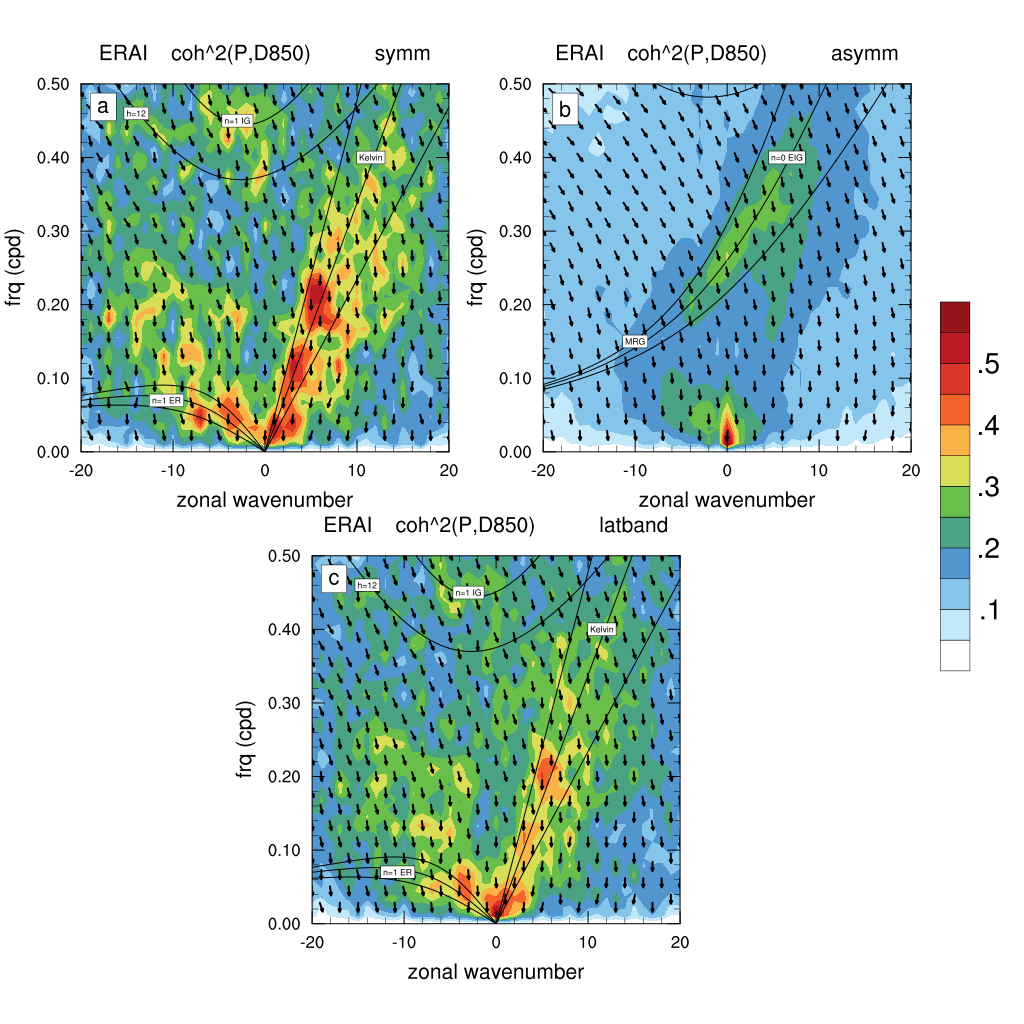
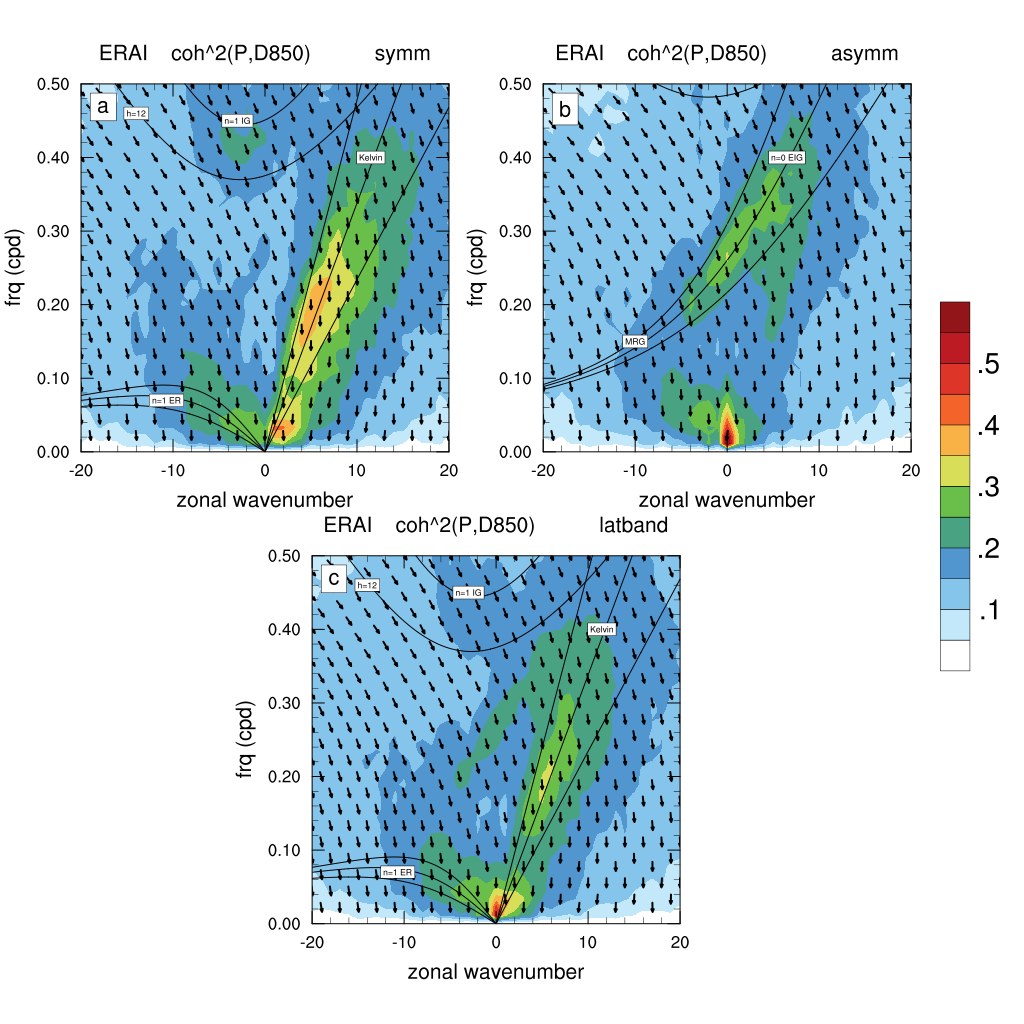
fixed bug in spacetime_plot and changed plot example back to Ngl plots

Changed region(s): [[0.2812, 0.5312, 0.6875, 0.9062], [0.0625, 0.0625, 0.4375, 0.4375]]

diff --git a/diagnostics/spacetime_plotly.py b/diagnostics/spacetime_plotly.py
@@ -291,10 +291,8 @@ def plot_coherence(cohsq, phase1, phase2, k, w, symmetry=("symm"), source="", va
         #plot = ngl.contour(wks, coh2, res)
         # plot_a = ngl.vector(wks, phs1, phs2, res_a)
         # ngl.overlay(plot, plot_a)
-        fig = go.Figure()
 
-        fig.add_trace(
-            go.Contour(
+        trace2 = go.Contour(
                 z=coh2,
                 x=k,
                 y=w,
@@ -304,13 +302,11 @@ def plot_coherence(cohsq, phase1, phase2, k, w, symmetry=("symm"), source="", va
                 colorbar=dict(len=0.6,
                               lenmode='fraction')
             )
-        )
         kk, ww = np.meshgrid(k, w)
         skip = 10
         f = ff.create_quiver(kk[::skip, ::skip], ww[::skip, ::skip], phs1[::skip, ::skip], phs2[::skip, ::skip])
         trace1 = f.data[0]
-        #data = [trace1, trace2]
-        #fig = go.FigureWidget(data, row=1, col=1)
+        fig.add_trace(trace2)
         fig.add_trace(trace1)
 
         (matsuno_names, textlabels, textlocsX, textlocsY) = text_labels(symmetry[pp])

diff --git a/examples/spectra_plot_coh2.py b/examples/spectra_plot_coh2.py
@@ -4,7 +4,7 @@ import xarray
 import sys
 
 sys.path.append('../../')
-from tropical_diagnostics.diagnostics import spacetime_plotly as stp
+from tropical_diagnostics.diagnostics import spacetime_plot as stp
 
 
 pathdata = '../data/'
@@ -72,7 +72,7 @@ while pp < nplot:
     pp += 1
 
 # plot coherence
-stp.plot_coherence(Coh2, Phs1, Phs2, k, w, symmetry, source, var1, var2, plotpath, flim, 20, contourmin, contourmax,
+stp.plot_coherence(Coh2, Phs1, Phs2, symmetry, source, var1, var2, plotpath, flim, 20, contourmin, contourmax,
                    contourspace, nplot, N)
 
 exit()

diff --git a/diagnostics/spacetime_plot.py b/diagnostics/spacetime_plot.py
@@ -12,7 +12,7 @@ from functools import reduce
 import pandas as pd
 import Ngl as ngl
 import string
-import utils.matsuno_plot as mp
+import tropical_diagnostics.utils.matsuno_plot as mp
 
 pi = np.pi
 re = 6.371008e6  # Earth's radius in meters
